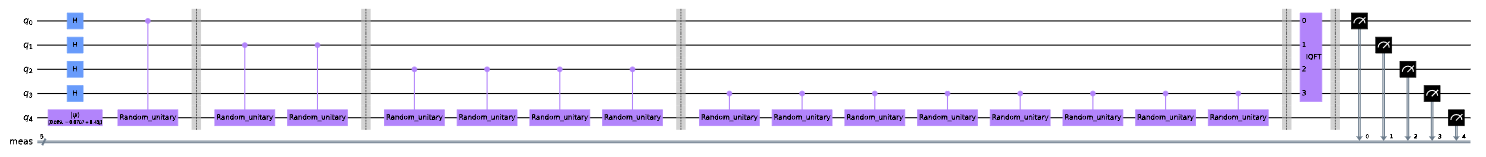
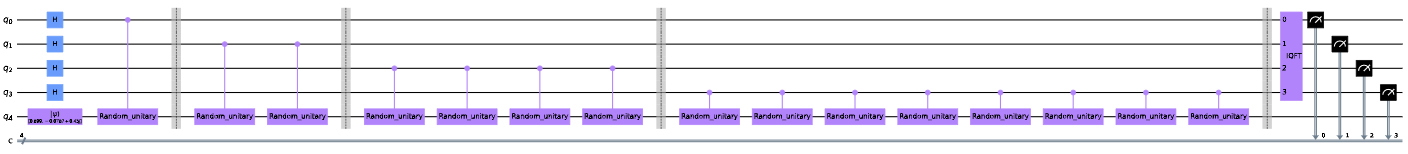
fix typo

Changed region(s): [[0.0, 0.0519, 1.0, 0.9351], [0.0, 0.2338, 0.0625, 0.3636]]

diff --git a/articles/dwd-qiskit13.md b/articles/dwd-qiskit13.md
@@ -194,7 +194,7 @@ unitary_gate.name = 'random_unitary'
 
 n_qubits = 4
 
-qc = QuantumCircuit(n_qubits + 1)
+qc = QuantumCircuit(n_qubits + 1, n_qubits)
 for i in range(n_qubits):
     qc.h(i)
 
@@ -209,7 +209,8 @@ for i in range(n_qubits):
 
 iqft_circuit = QFT(n_qubits).inverse()
 qc = qc.compose(iqft_circuit, list(range(n_qubits)))
-qc.measure_all()
+for i in range(n_qubits):
+    qc.measure(i, i)
 qc.draw(scale=0.4, fold=75)
 ```
 
@@ -241,9 +242,9 @@ counts_items = sorted(counts.items(), key=lambda k_v: -k_v[1])
 print(counts_items)
 ```
 
-> [('00111', 547), ('01000', 166), ('10111', 120), ('00110', 38), ('11000', 27), ('01001', 20), ('00101', 13), ('01011', 13), ('01010', 12), ('00011', 8), ('10100', 7), ('01100', 7), ('11001', 6), ('00100', 6), ('00010', 5), ('10110', 5), ('01110', 4), ('00000', 3), ('10010', 2), ('10011', 2), ('11011', 2), ('11100', 2), ('11010', 2), ('00001', 2), ('10001', 1), ('11111', 1), ('10101', 1), ('11101', 1), ('01101', 1)]
+> [('0111', 710), ('1000', 169), ('0110', 48), ('1001', 32), ('0101', 14), ('1010', 12), ('1011', 10), ('0011', 9), ('0100', 5), ('1110', 3), ('0010', 2), ('0000', 2), ('1101', 2), ('1111', 2), ('0001', 2), ('1100', 2)]
 
-思ったより圧倒的な頻度で答えが得られていないので、ノイズがあると少々怖い。
+まぁまぁの頻度で答えが得られているが、ノイズがあると少々怖い。
 
 ```python
 state, count = counts_items[0]
@@ -286,9 +287,9 @@ qc.measure_all()
 print(len(qc))
 ```
 
-> 4135
-> CPU times: user 48.9 s, sys: 225 ms, total: 49.1 s
-> Wall time: 51.1 s
+> 4133
+> CPU times: user 54.5 s, sys: 463 ms, total: 55 s
+> Wall time: 55.3 s
 
 ```python
 %%time
@@ -297,11 +298,11 @@ qc1 = qc.decompose().decompose().decompose().decompose().decompose().decompose()
 print(len(qc1))
 ```
 
-> 57731
-> CPU times: user 1min 27s, sys: 300 ms, total: 1min 27s
-> Wall time: 1min 28s
+> 57729
+> CPU times: user 1min 30s, sys: 434 ms, total: 1min 30s
+> Wall time: 1min 31s
 
-`.decompose` 前は 4235 だった深さが、57731 にまで増えているのもつらいところである。つまり理論上は $\mathcal{O}(2^n)$ の深度でも、シミュレータや実機上で実行できるゲートにまでトランスパイルして分解すると、遥かに深い可能性がある。また、ゲートの深さが指数関数的に増えるので、量子ビット数を 1 つ増やすごとに、量子回路の構築時間が倍々で増えるかもしれない。
+`.decompose` 前は 4233 だった深さが、57729 にまで増えているのもつらいところである。つまり理論上は $\mathcal{O}(2^n)$ の深度でも、シミュレータや実機上で実行できるゲートにまでトランスパイルして分解すると、遥かに深い可能性がある。また、ゲートの深さが指数関数的に増えるので、量子ビット数を 1 つ増やすごとに、量子回路の構築時間が倍々で増えるかもしれない。
 
 ```python
 %%time
@@ -313,9 +314,9 @@ counts_items = sorted(counts.items(), key=lambda k_v: -k_v[1])
 print(counts_items[:5])
 ```
 
-> [('0011101010101', 719), ('1011101010101', 157), ('0011101010100', 51), ('0011101010110', 17), ('1011101010100', 15)]
-> CPU times: user 10min 35s, sys: 2.31 s, total: 10min 37s
-> Wall time: 10min 24s
+> [('011101010101', 882), ('011101010100', 53), ('011101010110', 30), ('011101010011', 14), ('011101010111', 9)]
+> CPU times: user 11min 8s, sys: 3.03 s, total: 11min 11s
+> Wall time: 11min
 
 GPU を使ったものの結構時間がかかった。1 つの理由としては、状態ベクトルの GPU シミュレーションは常に GPU を使うわけではなく、CPU に戻って、次のゲートの投入、次のゲートの投入・・・という処理を回す「CPU-GPU ハイブリッド」な感じになるからかもしれない。一瞬 GPU を使って、また一瞬 GPU を使ってと、深層学習に比べて遥かに穏やかな GPU の使い方をしている。
 
